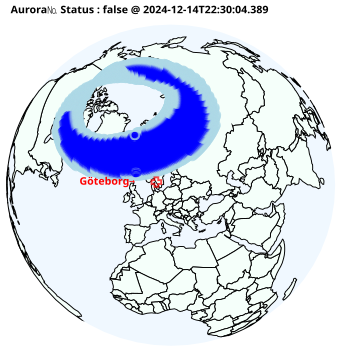
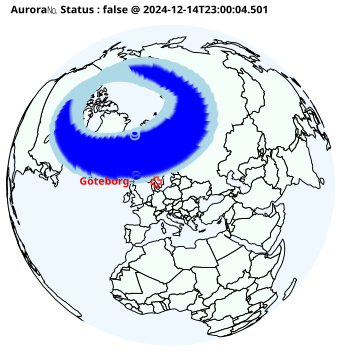
20241214230018 added aur.html

diff --git a/aur.html b/aur.html
@@ -7,6 +7,6 @@
 <body>
     <h1>Aurora Watch</h1>
     <img src="a.png" alt="Aurora Image" style="width:100%;max-width:600px;">
-    <p>Aurora Level 🌌= (0.5) was observed. (2024-12-14T22:30:04.389)</p>
+    <p>Aurora Level 🌌= (1.0) was observed. (2024-12-14T23:00:04.501)</p>
 </body>
 </html>
